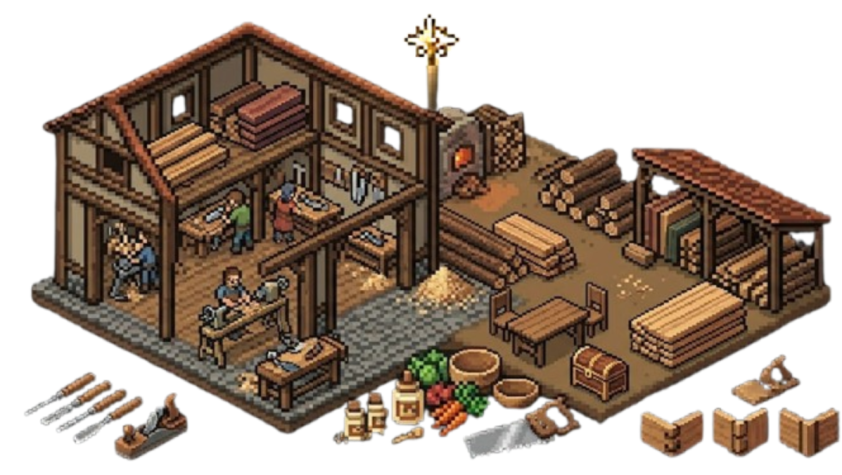
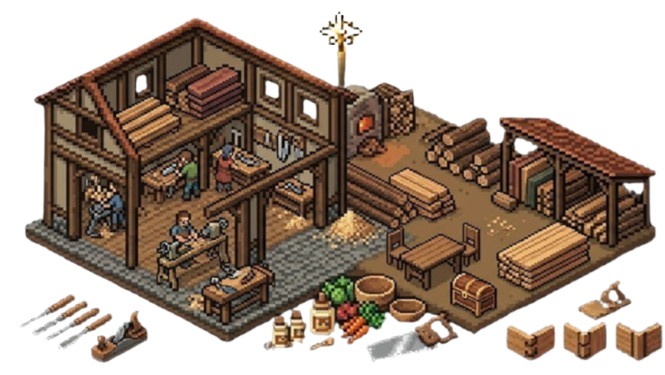
Interface(con sus identificadores)

diff --git a/M03/src/pkgmain/UI.java b/M03/src/pkgmain/UI.java
@@ -172,6 +172,9 @@ class Panel_Oeste_Botones extends JPanel {
         
         add(btnAtaque);
         add(btnDefensa);
+        btnAtaque.addActionListener(e -> System.out.println("[CLICK] Pulsaste botonAtaque (Debería ser Ataque)"));
+        btnDefensa.addActionListener(e -> System.out.println("[CLICK] Pulsaste botonDefensa (Debería ser Defensa)"));
+
     }
 }
 
@@ -190,40 +193,59 @@ class Panel_Este extends JPanel {
 		
 	}
 }
-class Panel_Este_Inferior extends JPanel{
-	private String[] nombres= {
-			"Granja",
-			"Carpinteria",
-			"Herreria",
-			"Torre Magica",
-			"Iglesia"
-	};
-	public Panel_Este_Inferior() {
-        // 1. Decimos que este panel se organice como una rejilla de 2x5
-        // Parámetros: GridLayout(filas, columnas, espacio_horizontal, espacio_vertical)
+class Panel_Este_Inferior extends JPanel {
+    private JButton boton1, boton2, boton3, boton4, boton5;
+
+    // 1. AQUÍ EMPIEZA Y TERMINA EL CONSTRUCTOR
+    public Panel_Este_Inferior() {
+        
         setLayout(new GridLayout(5, 1, 0, 10));
         
-        // 2. Le ponemos el borde con título centrado
+        
+        
         TitledBorder borde = BorderFactory.createTitledBorder("Lateral Derecho Estructuras");
         borde.setTitleJustification(TitledBorder.TOP);
         setBorder(borde);
         
-        this.setPreferredSize(new Dimension(200, 400));
+        boton1=crearBotonEstructura("Granja");
+        boton2=crearBotonEstructura("Herreria");
+        boton3=crearBotonEstructura("Iglesia");
+        boton4=crearBotonEstructura("Torre_Magica");
+        boton5=crearBotonEstructura("Carpinteria");
         
-        // 3. Creamos y añadimos los 10 cuadraditos (en este caso, botones)
-        for (int i = 0; i <nombres.length; i++) {
-            JButton botonEstructura = new JButton(nombres[i]);
-            
-            
-            // Opcional: Puedes cambiarles el color de fondo para que se noten más
-            botonEstructura.setBackground(Color.white); 
-            
-            // Al usar GridLayout, solo con hacer add(), Java lo mete en la celda que toca
-            add(botonEstructura);
+        add(boton1);
+        add(boton2);
+        add(boton3);
+        add(boton4);
+        add(boton5);
+        
+        boton1.addActionListener(e -> System.out.println("[CLICK] Pulsaste boton1 (Debería ser Granja)"));
+        boton2.addActionListener(e -> System.out.println("[CLICK] Pulsaste boton1 (Debería ser Herreria)"));
+        boton3.addActionListener(e -> System.out.println("[CLICK] Pulsaste boton1 (Debería ser Iglesia)"));
+        boton4.addActionListener(e -> System.out.println("[CLICK] Pulsaste boton1 (Debería ser Torre_Magica)"));
+        boton5.addActionListener(e -> System.out.println("[CLICK] Pulsaste boton1 (Debería ser Carpinteria)"));
+    } 
+
+    // 2. AQUÍ EMPIEZA TU MÉTODO AUXILIAR (Fuera del constructor)
+    private JButton crearBotonEstructura(String nombreImagen) {
+        System.out.println("Cargando: " + nombreImagen + ".png");
+        
+        ImageIcon iconoOriginal = new ImageIcon(nombreImagen + ".png");
+        
+        if (iconoOriginal.getImageLoadStatus() != java.awt.MediaTracker.COMPLETE) {
+            iconoOriginal.getImage().getWidth(null); 
         }
-    }
-	
-}
+        
+        Image imagenRedimensionada = iconoOriginal.getImage().getScaledInstance(70, 70, Image.SCALE_SMOOTH);
+        ImageIcon iconoFinal = new ImageIcon(imagenRedimensionada);
+        
+        JButton boton = new JButton(iconoFinal);
+        boton.setBackground(Color.WHITE);
+        
+        return boton;
+    } 
+    
+} 
 
 class Panel_Inferior_Central extends JPanel {
     private JButton boton1, boton2, boton3, boton4, boton5, boton6, boton7, boton8, boton9;
